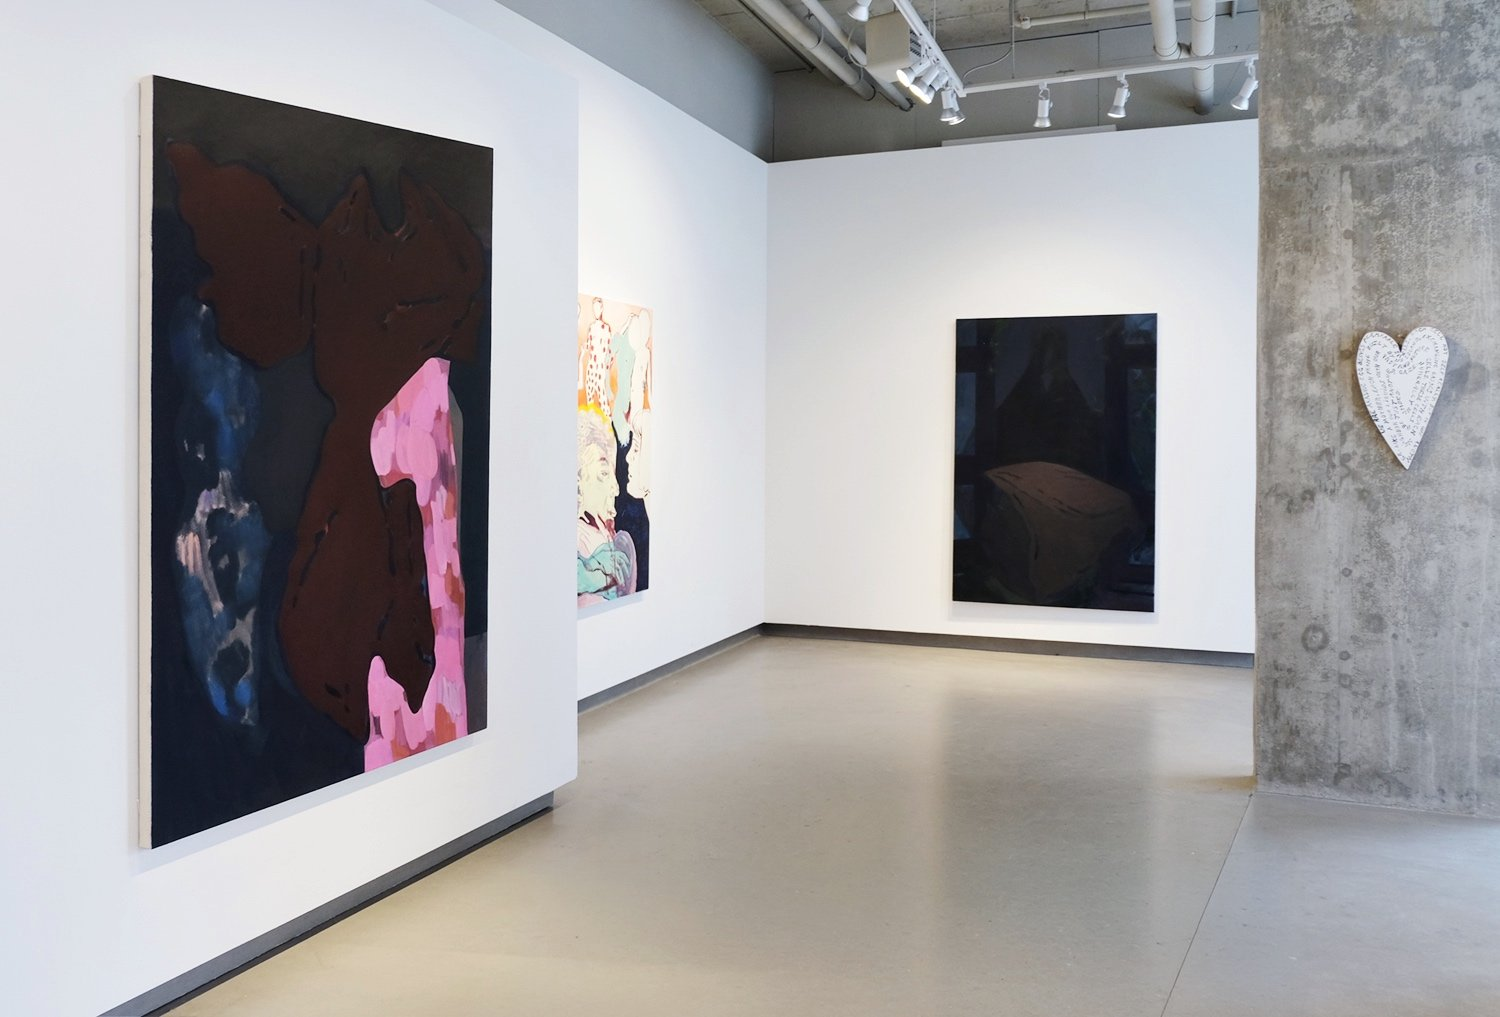
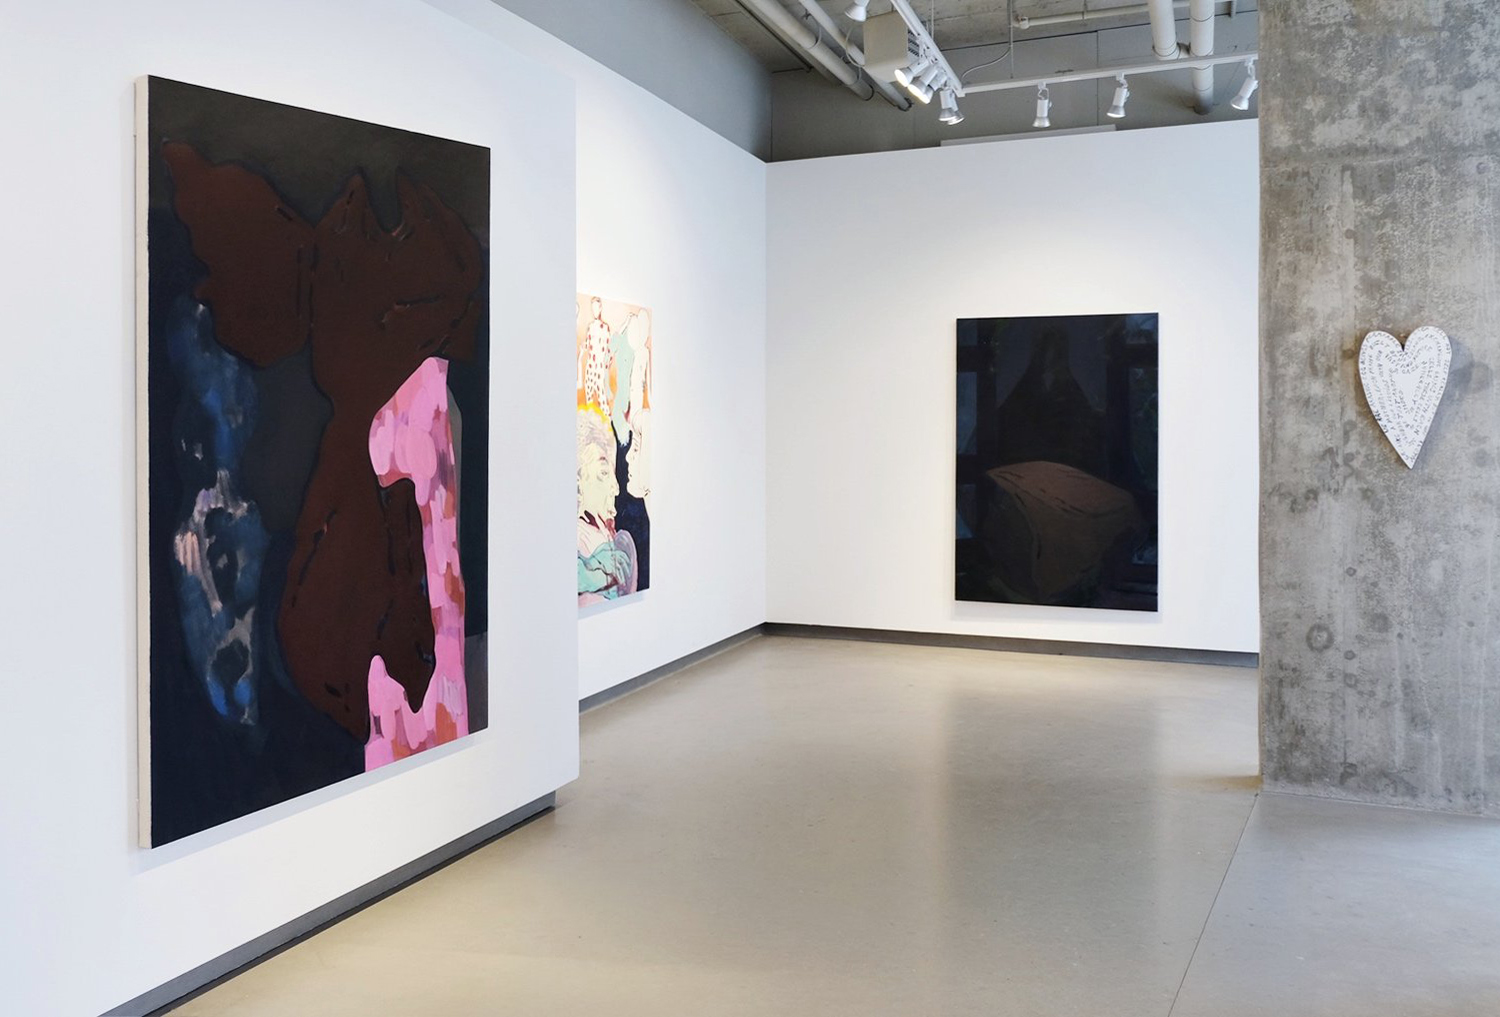
soma

diff --git a/index.html b/index.html
@@ -55,7 +55,7 @@
       <div class="caption"><a class="homepage-caption-link" href="fiftyfifty.html"><em>Pleated Fingers Parted</em>, 2019</a></div>
       <div class="homepage-static homepage-exhibition-portrait"><img loading="lazy" decoding="async" class="site-portrait slide homepage-image" alt="He Said She Said" src="images/homepage/web_hesaidshesaid.jpg" srcset="images/mobile/homepage/web_hesaidshesaid-640.jpg 640w, images/homepage/web_hesaidshesaid.jpg 1491w" sizes="(max-width: 899px) calc(100vw - 1.5rem), 800px"></div>
       <div class="caption slidevert"><em>He Said She Said</em>, 2019, oil on canvas, 36” x 42”</div>
-      <div class="homepage-exhibition"><img loading="lazy" decoding="async" class="slide homepage-image" alt="somebody any body" src="images/homepage/web_soma1-balanced.jpg" srcset="images/mobile/homepage/web_soma1-balanced-640.jpg 640w, images/homepage/web_soma1-balanced.jpg 1500w" sizes="(max-width: 899px) calc(100vw - 1.5rem), 800px"><a class="homepage-exhibition-link" href="soma.html" aria-label="View somebody any body exhibition">*</a></div>
+      <div class="homepage-exhibition"><img loading="lazy" decoding="async" class="slide homepage-image" alt="somebody any body" src="images/homepage/web_soma1-balanced.jpg?v=6e58bdf67d" srcset="images/mobile/homepage/web_soma1-balanced-640.jpg?v=9369c93f42 640w, images/homepage/web_soma1-balanced.jpg?v=6e58bdf67d 1500w" sizes="(max-width: 899px) calc(100vw - 1.5rem), 800px"><a class="homepage-exhibition-link" href="soma.html" aria-label="View somebody any body exhibition">*</a></div>
       <div class="caption"><a class="homepage-caption-link" href="soma.html"><em>somebody any body</em>, 2019</a></div>
       <div class="homepage-static homepage-exhibition-portrait"><img loading="lazy" decoding="async" class="site-portrait slide homepage-image" alt="Violante" src="images/homepage/web_violante.jpg" srcset="images/mobile/homepage/web_violante-640.jpg 640w, images/homepage/web_violante.jpg 1268w" sizes="(max-width: 899px) calc(100vw - 1.5rem), 800px"></div>
       <div class="caption slidevert"><em>Violante</em>, 2020, oil on canvas, brass eyelets, approximately 51” x 20”</div>

diff --git a/soma.html b/soma.html
@@ -22,7 +22,7 @@
     <div class="site-header-spacer"></div>
     <main class="slide-container vertical-exhibition-gallery" aria-label="somebody any body exhibition">
       <figure>
-        <img loading="eager" decoding="async" class="slide" alt="somebody any body exhibition view" src="images/exhibitions/soma/web_soma-walls-balanced.webp?v=61ccaeaf9d" srcset="images/exhibitions/soma/web_soma-640-walls-balanced.webp?v=946cdb2bbd 640w, images/exhibitions/soma/web_soma-walls-balanced.webp?v=61ccaeaf9d 1920w" sizes="(max-width: 899px) 100vw, 75vw" width="1920" height="1280">
+        <img loading="eager" decoding="async" class="slide" alt="somebody any body exhibition view" src="images/homepage/web_soma1-balanced.jpg?v=6e58bdf67d" srcset="images/mobile/homepage/web_soma1-balanced-640.jpg?v=9369c93f42 640w, images/homepage/web_soma1-balanced.jpg?v=6e58bdf67d 1500w" sizes="(max-width: 899px) 100vw, 75vw" width="1500" height="1017">
       </figure>
       <figure>
         <img loading="lazy" decoding="async" class="site-portrait slidevert" alt="Rag" src="images/exhibitions/soma/web_rag-walls-balanced.webp?v=5eeb11978f" srcset="images/exhibitions/soma/web_rag-640-walls-balanced.webp?v=099d2fe241 640w, images/exhibitions/soma/web_rag-walls-balanced.webp?v=5eeb11978f 1197w" sizes="(max-width: 899px) 70vw, 52.5vw" width="1197" height="1600">
